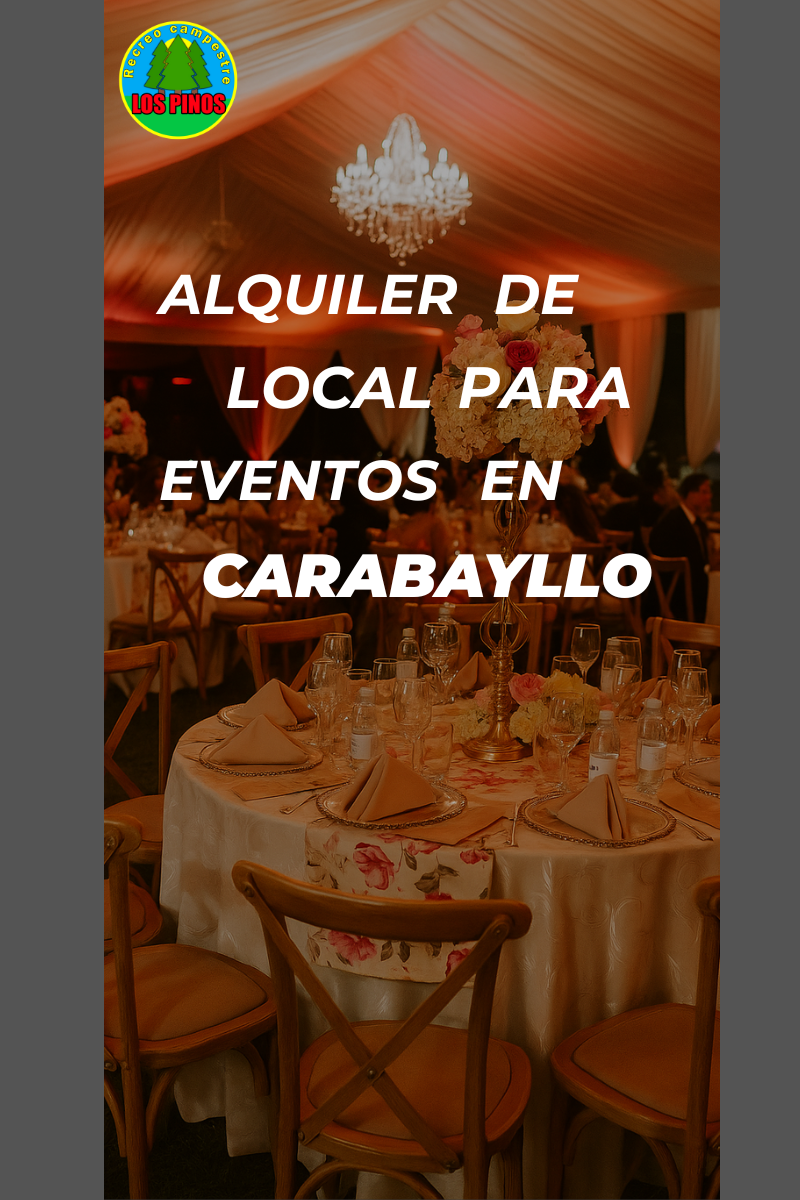
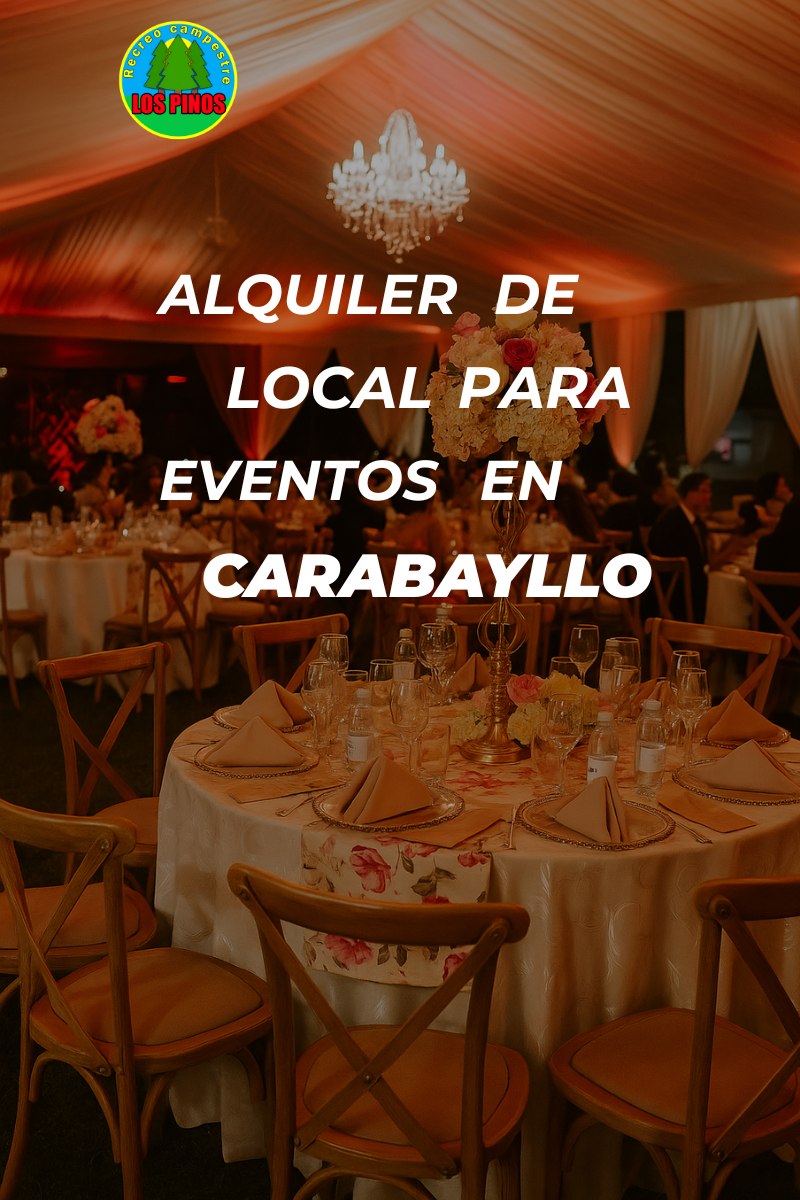
recreo-campestre-v15

diff --git a/negocios/eventos/recreo-campestre/recreo.campestre.css b/negocios/eventos/recreo-campestre/recreo.campestre.css
@@ -197,7 +197,7 @@ body, html {
     left: 200%;
 }
 
-@media (max-width: 500px) {
+@media (max-width: 600px) {
 
   .hero {
     position: relative;
@@ -210,11 +210,11 @@ body, html {
     width: 100%;
     height: 100%;
     object-fit: cover;
-    content: url('../../../img/recreo-campestre/hero-fondo-500px.png');
+    content: url('../../../img/recreo-campestre/hero-fondo-600px.png');
     position: absolute;
     top: 0;
     left: 0;
-    z-index: 1; /* 👈 asegura que quede detrás */
+    z-index: 1; 
   }
 
   .logo-negocio,
@@ -398,3 +398,4 @@ body, html {
     transform: scale(1.01);
     transition: transform 0.3s ease, background 0.3s ease;
 }
+
